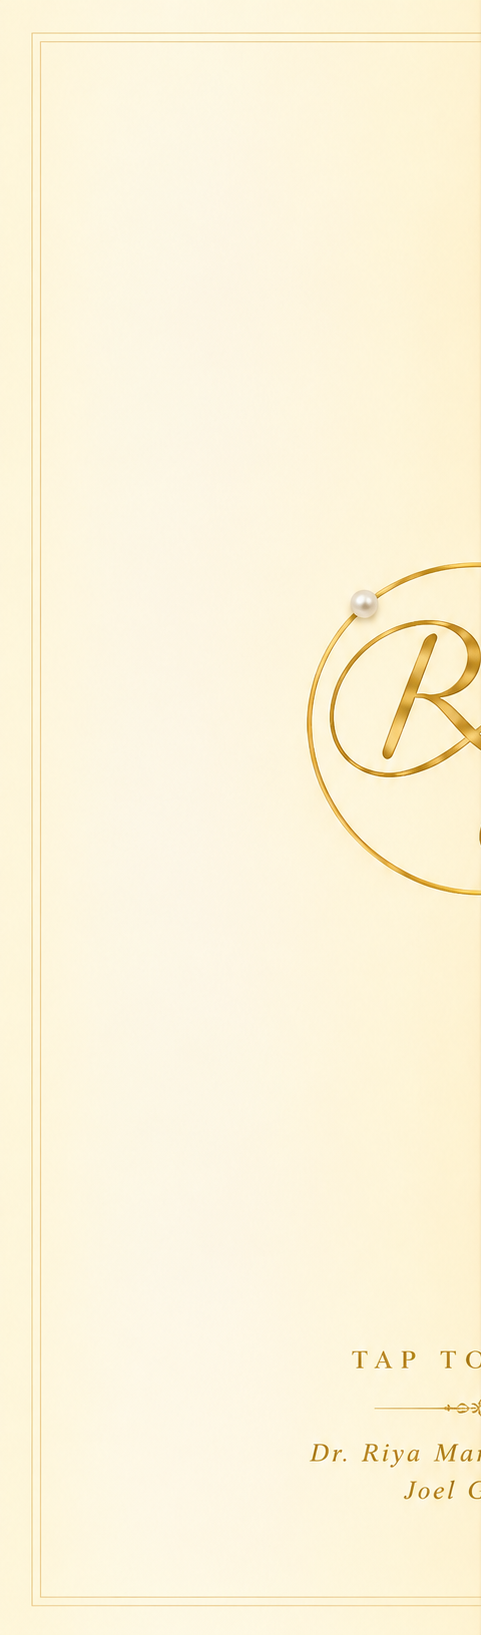
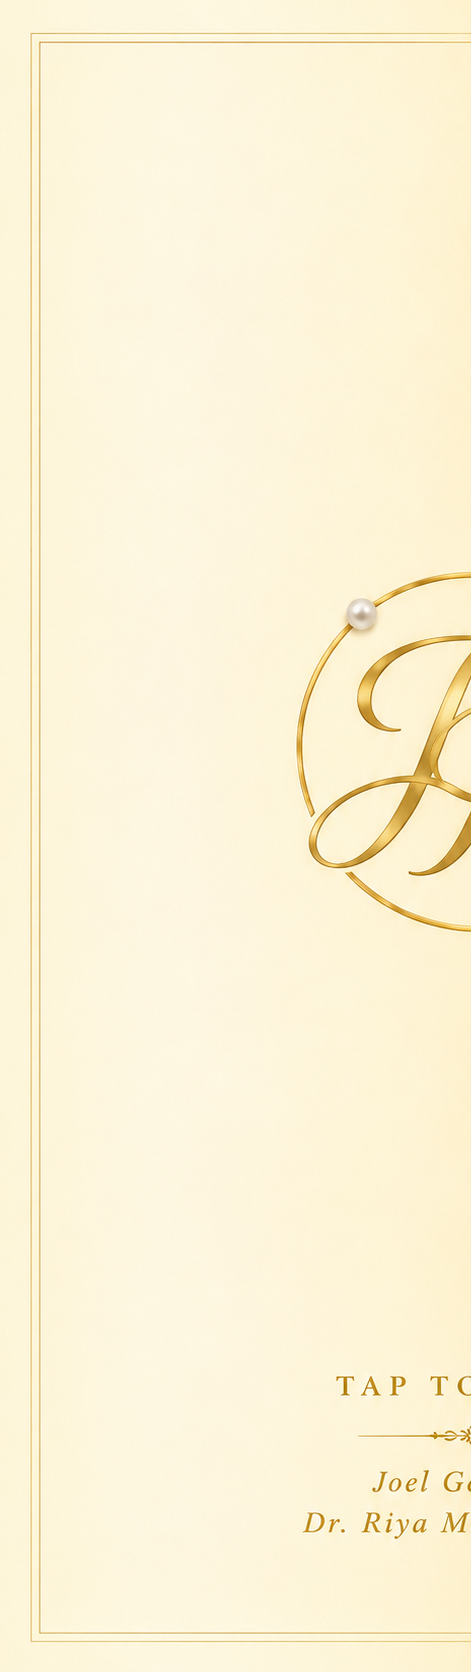
Replace opening screen doors with new door.png image and update door split animation

diff --git a/styles.css b/styles.css
@@ -117,8 +117,8 @@ body.doors-locked #card-stage {
 /* Responsive Android Phone Ratio & Container */
 .door-wrapper {
   position: relative;
-  width: min(100vw - 32px, 440px, calc((100vh - 48px) * (962 / 1635)));
-  aspect-ratio: 962 / 1635;
+  width: min(100vw - 32px, 440px, calc((100vh - 48px) * (941 / 1672)));
+  aspect-ratio: 941 / 1672;
   height: auto;
   max-height: calc(100vh - 48px);
   display: flex;
@@ -158,14 +158,14 @@ body.doors-locked #card-stage {
 .door-left {
   left: 0;
   transform-origin: left center;
-  background-image: url('assets/door-left.jpg?v=7');
+  background-image: url('assets/door-left.png?v=9');
   background-position: right center;
 }
 
 .door-right {
   right: 0;
   transform-origin: right center;
-  background-image: url('assets/door-right.jpg?v=7');
+  background-image: url('assets/door-right.png?v=9');
   background-position: left center;
 }
 

diff --git a/index.html b/index.html
@@ -40,10 +40,10 @@
   <link
     href="https://fonts.googleapis.com/css2?family=Cormorant+Garamond:ital,wght@0,400;0,500;0,600;0,700;1,400;1,500&family=Great+Vibes&family=Pinyon+Script&family=Alex+Brush&family=Plus+Jakarta+Sans:wght@400;500;600&display=swap"
     rel="stylesheet" />
-  <link rel="preload" as="image" href="assets/door-left.jpg?v=7" />
-  <link rel="preload" as="image" href="assets/door-right.jpg?v=7" />
+  <link rel="preload" as="image" href="assets/door-left.png?v=9" />
+  <link rel="preload" as="image" href="assets/door-right.png?v=9" />
   <link rel="preload" as="image" href="assets/couple-embroidery.jpg?v=2" />
-  <link rel="stylesheet" href="styles.css?v=42" />
+  <link rel="stylesheet" href="styles.css?v=43" />
 </head>
 
 <body class="doors-locked">
